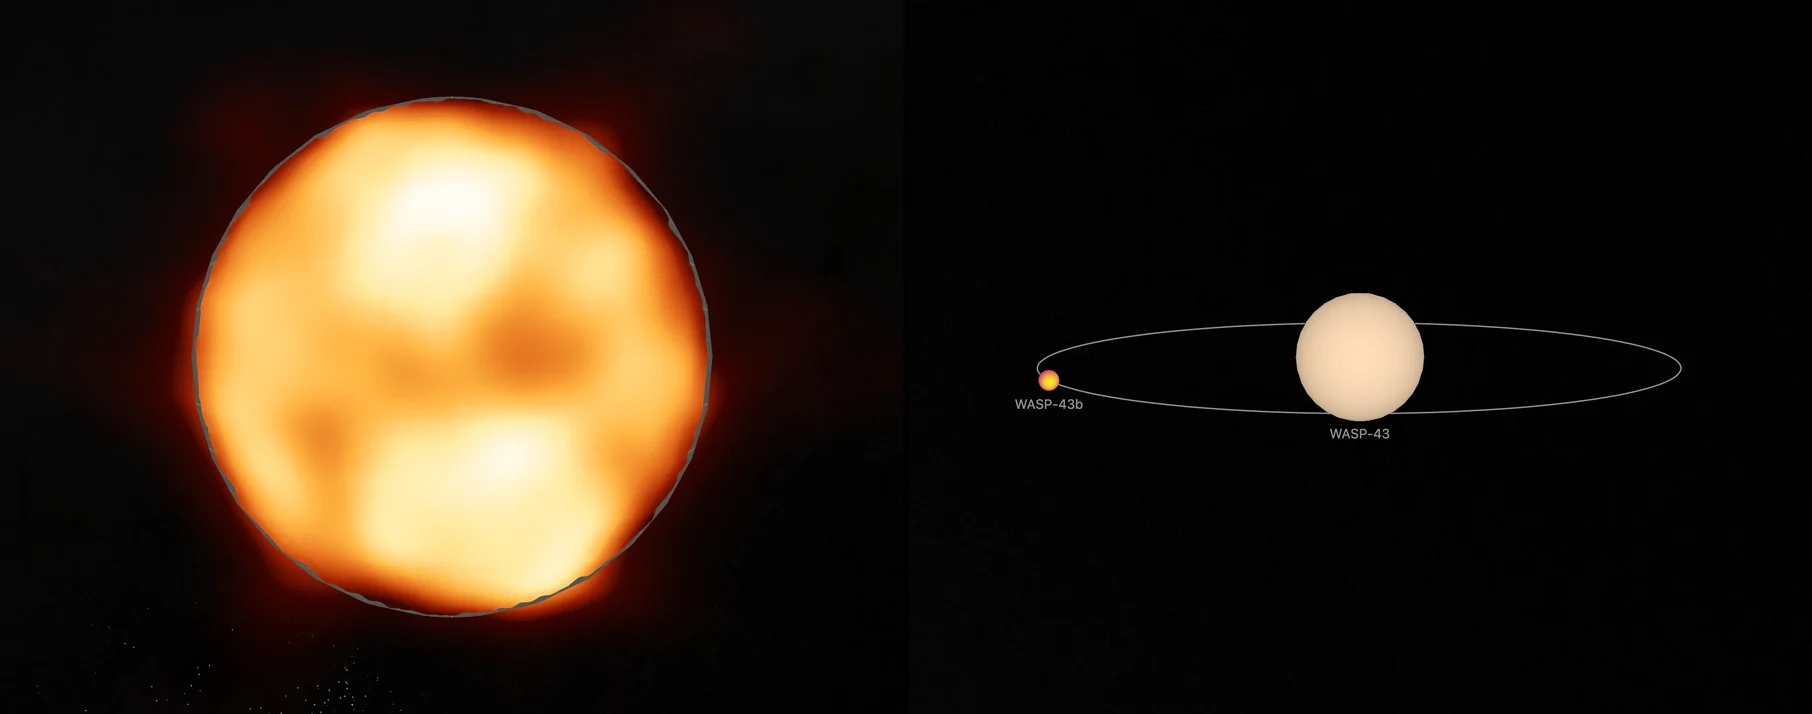
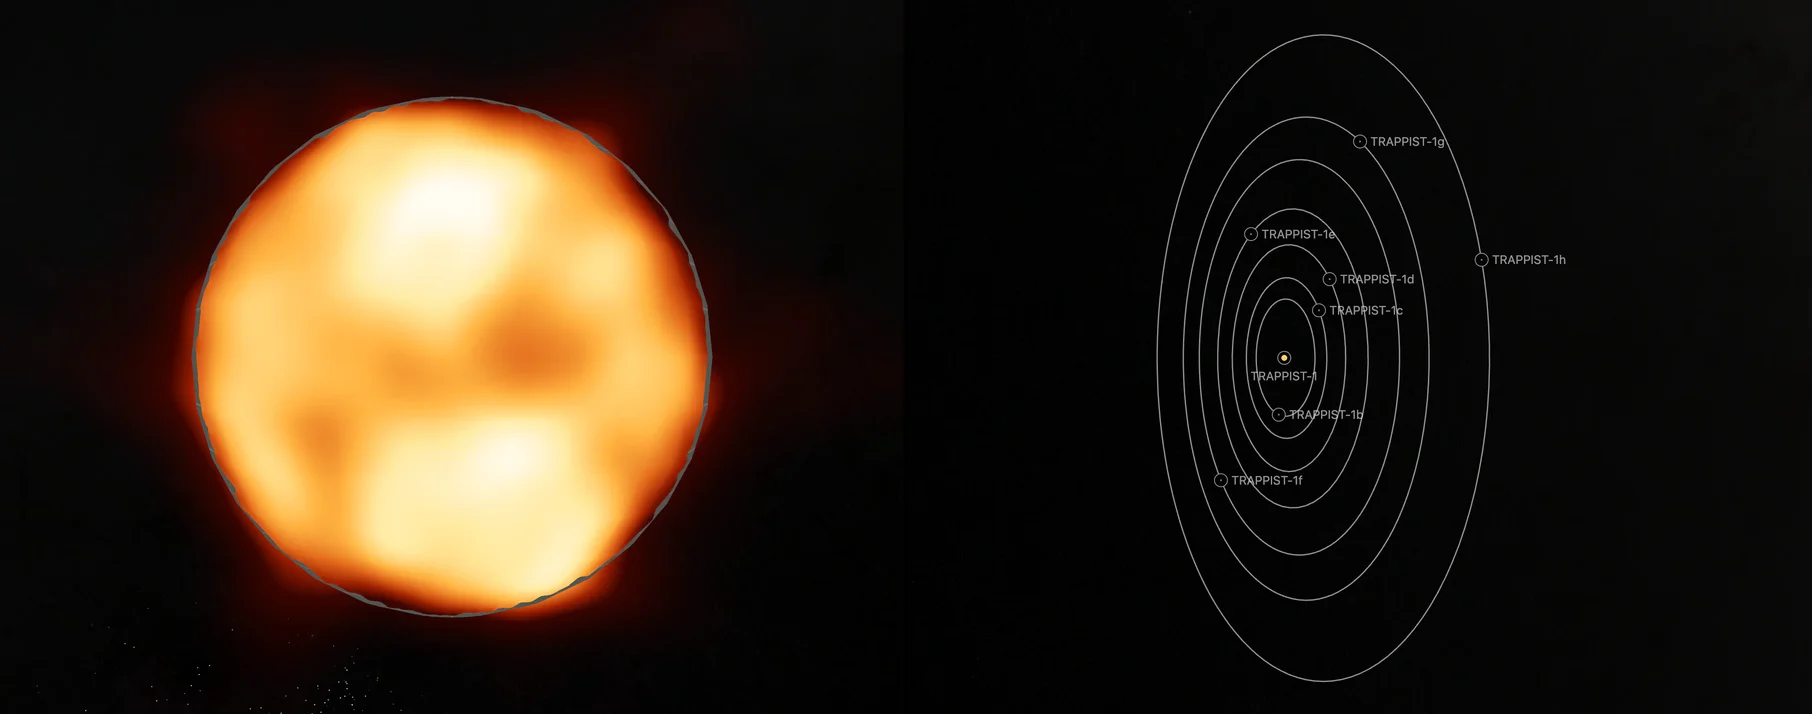
docs(readme): show the TRAPPIST-1 system beside Betelgeuse

diff --git a/README.md b/README.md
@@ -18,7 +18,7 @@ css.earth outputs one URL per celestial body with a shared camera, so you can fl
 
 - **Stars and exoplanets:** stars whose surfaces have been imaged, such as Betelgeuse and R Doradus, and planetary systems beyond the Sun, such as WASP-43, HD 189733 and TRAPPIST-1.
 
-<img src=".github/assets/stars-exoplanets.webp" alt="Betelgeuse's imaged surface, and the WASP-43 system with its planet WASP-43b, rendered as DOM and CSS markup" width="960">
+<img src=".github/assets/stars-exoplanets.webp" alt="Betelgeuse's imaged surface, and the TRAPPIST-1 system with its seven planets, rendered as DOM and CSS markup" width="960">
 
 - **Interstellar visitors:** 'Oumuamua, Borisov and 3I/ATLAS.
 
